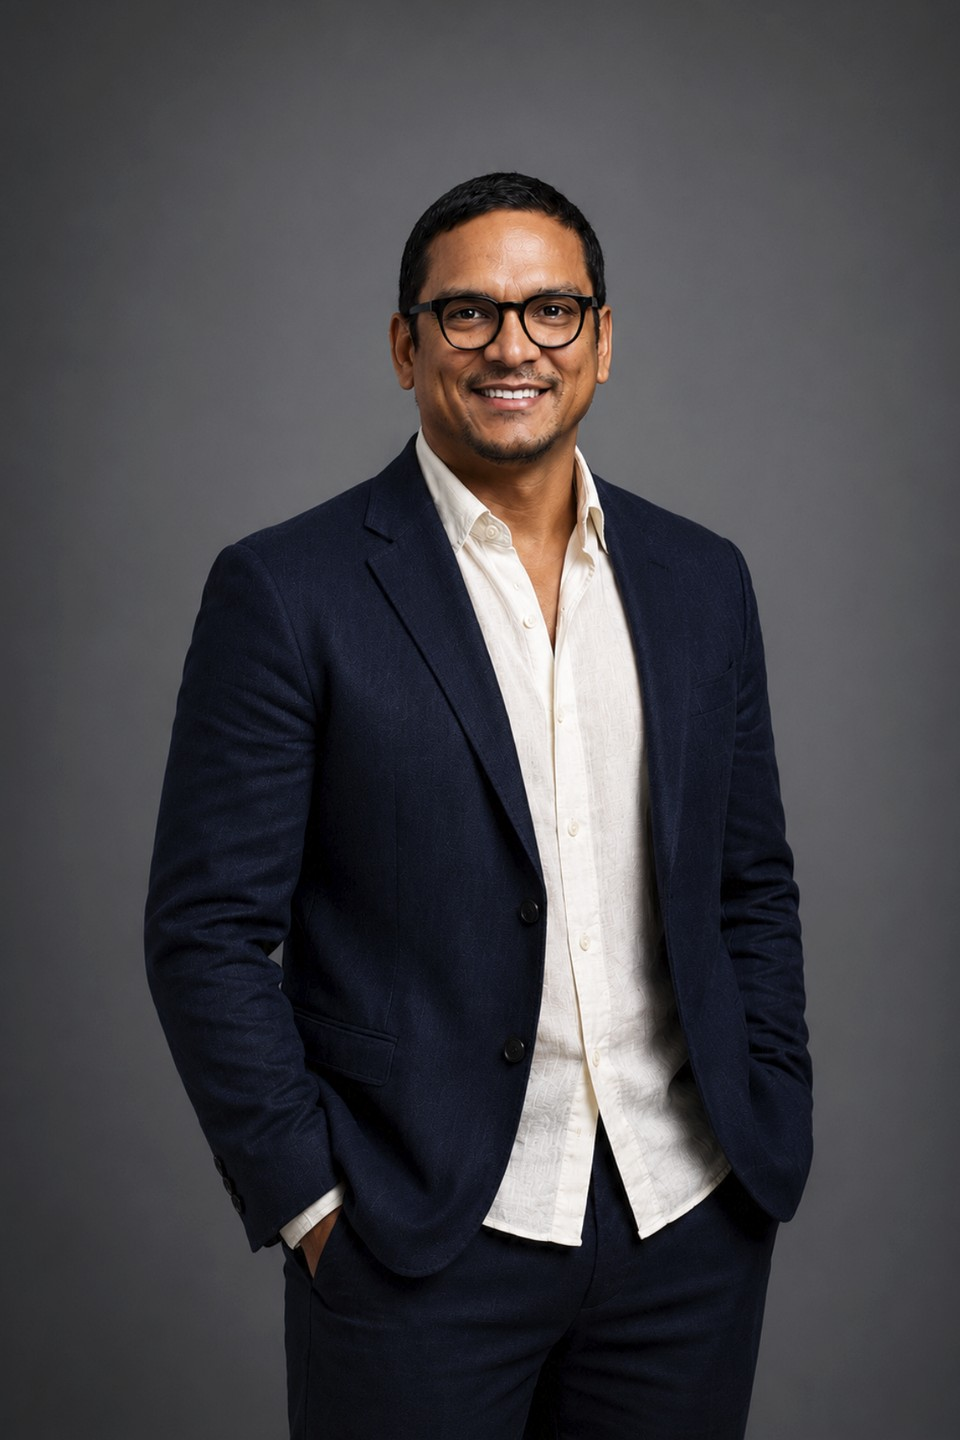
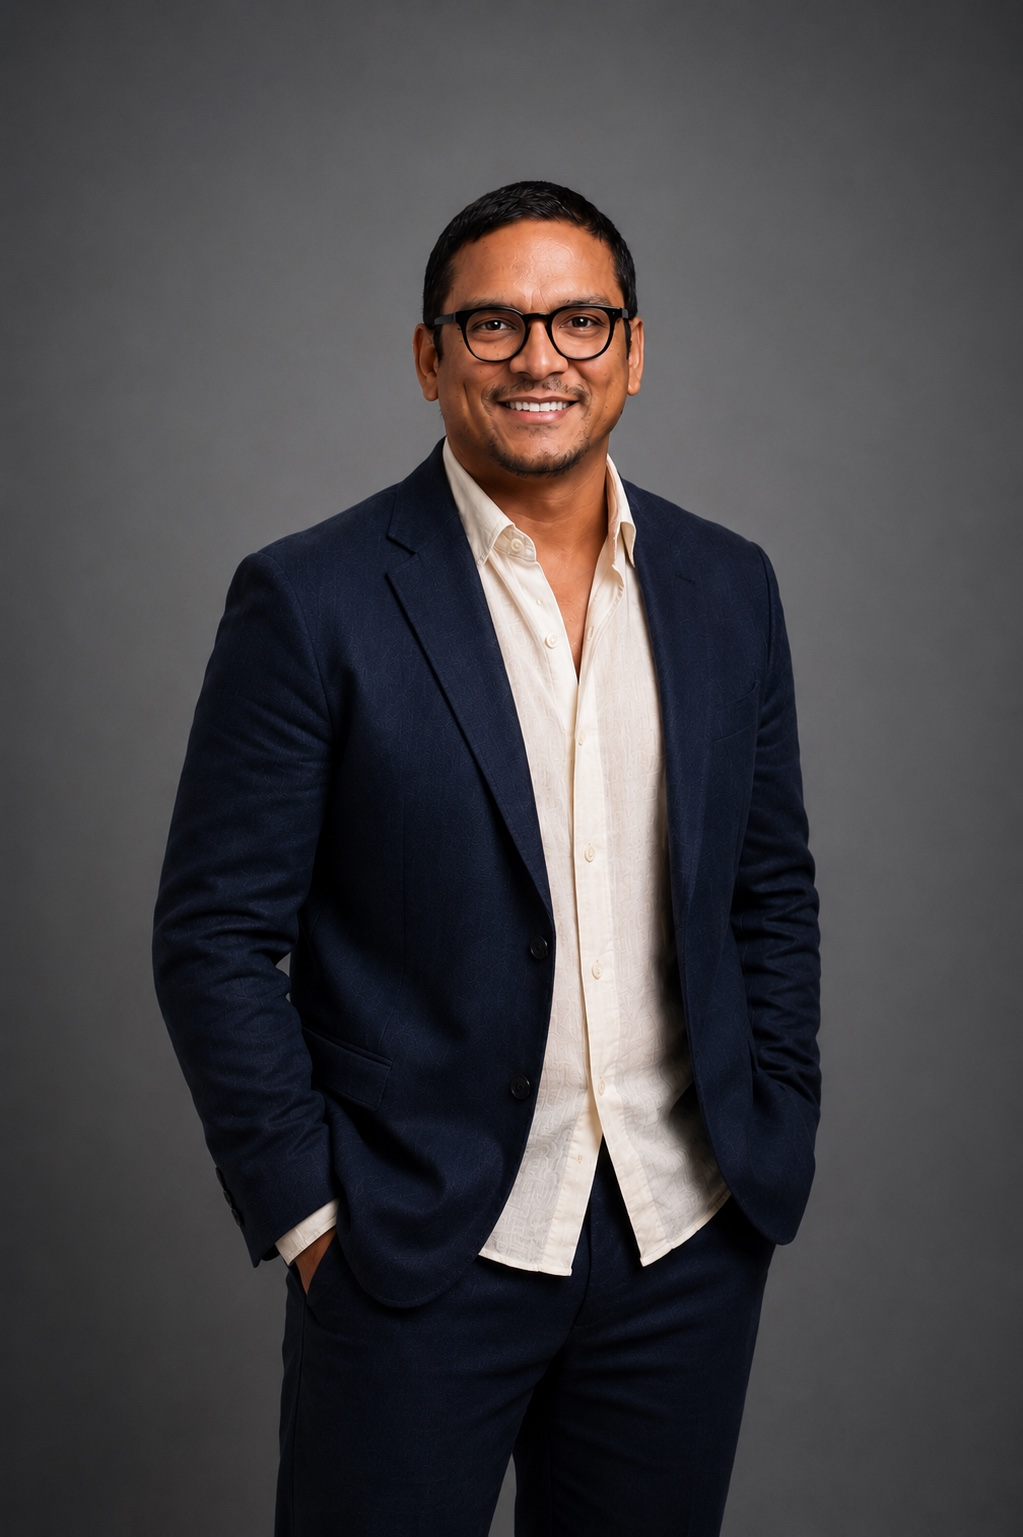
Update official Dario brand imagery

diff --git a/index-en.html b/index-en.html
@@ -647,7 +647,7 @@ footer{background:#fff;border-top:1px solid var(--line);padding:54px 0 30px}
   <div class="container">
     <div class="about-grid">
       <div class="portrait">
-        <img src="images/dario-brand-vertical.jpg" alt="Dario Jhangimal" width="960" height="1440" loading="lazy" decoding="async">
+        <img src="images/dario-brand-vertical.jpg" alt="Dario Jhangimal" width="1023" height="1537" loading="lazy" decoding="async">
       </div>
       <div>
         <span class="eyebrow">About Dario</span>

diff --git a/index.html b/index.html
@@ -647,7 +647,7 @@ footer{background:#fff;border-top:1px solid var(--line);padding:54px 0 30px}
   <div class="container">
     <div class="about-grid">
       <div class="portrait">
-        <img src="images/dario-brand-vertical.jpg" alt="Dario Jhangimal" width="960" height="1440" loading="lazy" decoding="async">
+        <img src="images/dario-brand-vertical.jpg" alt="Dario Jhangimal" width="1023" height="1537" loading="lazy" decoding="async">
       </div>
       <div>
         <span class="eyebrow">Sobre Dario</span>

diff --git a/README.md b/README.md
@@ -22,7 +22,16 @@ spotone-landing/
 
 ## Brand notes
 
-- Tipografía display: Fraunces (variable, serif editorial)
-- Body: Inter
-- Paleta: crema cálido + tinta carbón + acento cognac
+- Tipografía: Instrument Sans
+- Paleta: blanco editorial + tinta carbón + azul SpotOne
 - Voz: analítica, sobria, sin empujar
+
+## Imagen de marca
+
+Las imágenes oficiales de Dario son únicamente las versiones con saco ink navy, camisa crema y manos dentro de los bolsillos.
+
+- Vertical oficial para web: `images/dario-brand-vertical.jpg` (`1023 × 1537`)
+- Horizontal oficial para marca: `images/dario-brand-horizontal.jpg` (`1537 × 1023`)
+- Fuentes PNG preservadas: `images/dario-brand-vertical.png` y `images/dario-brand-horizontal.png`
+
+No usar las versiones anteriores con camisa celeste ni retratos sentados. En la web, la sección “Sobre Dario” debe usar la vertical oficial sin crop; la horizontal queda como activo de marca para piezas editoriales, manual y layouts con espacio de texto.